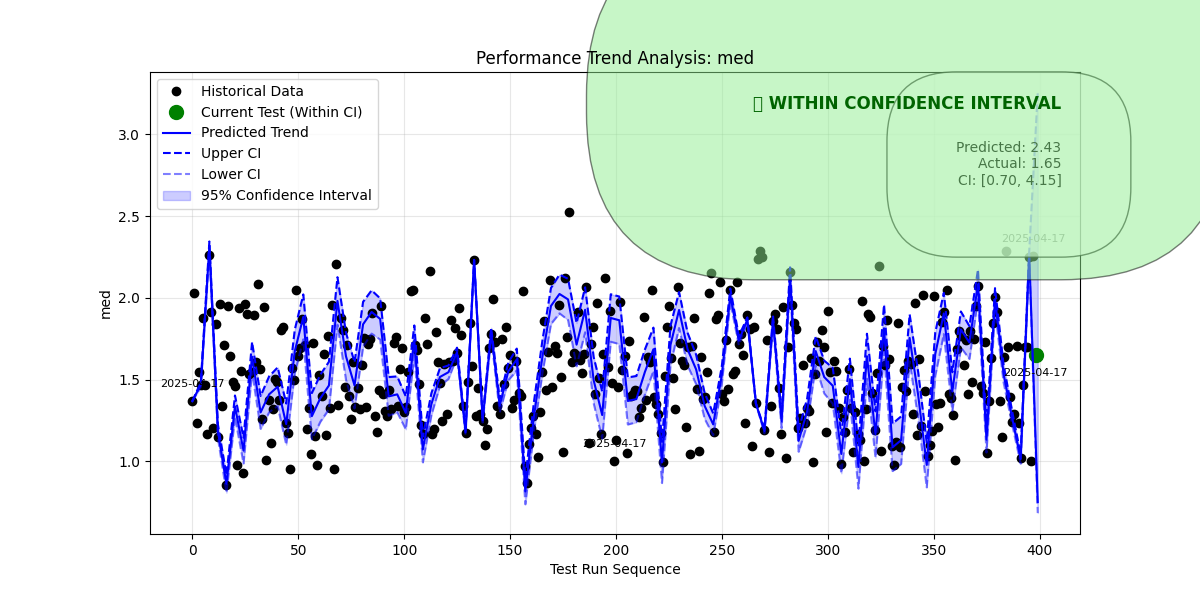
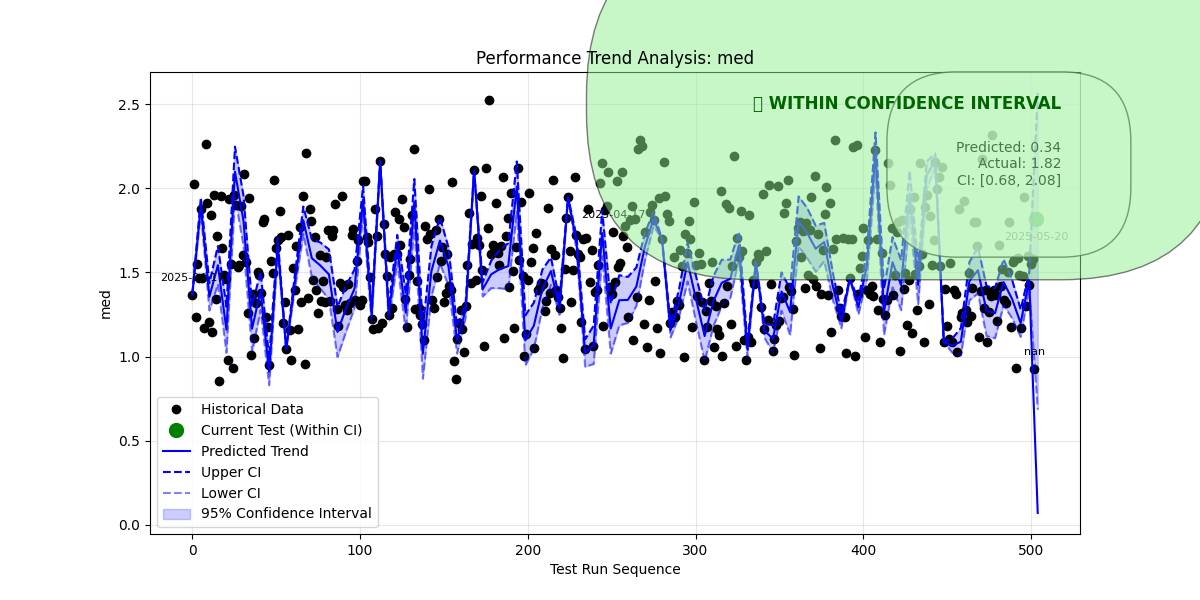
fix timestamp issue

diff --git a/analyze_trend_with_ml.py b/analyze_trend_with_ml.py
@@ -129,11 +129,29 @@ def print_analysis_results(results):
 
 def plot_trend_with_current(historical_csv, current_csv, metric):
     """Plots the historical trend with prediction and current value."""
-    historical_df = pd.read_csv(historical_csv, parse_dates=['timestamp'])
-    current_df = pd.read_csv(current_csv, parse_dates=['timestamp'])
+    # Load data
+    historical_df = pd.read_csv(historical_csv)
+    current_df = pd.read_csv(current_csv)
     
-    # Sort historical data by timestamp
-    historical_df = historical_df.sort_values('timestamp')
+    # Explicitly convert timestamp to datetime if needed
+    try:
+        if 'timestamp' in historical_df.columns:
+            # Try to convert timestamp to datetime if it's not already
+            if not pd.api.types.is_datetime64_any_dtype(historical_df['timestamp']):
+                historical_df['timestamp'] = pd.to_datetime(historical_df['timestamp'], errors='coerce')
+        
+        if 'timestamp' in current_df.columns:
+            if not pd.api.types.is_datetime64_any_dtype(current_df['timestamp']):
+                current_df['timestamp'] = pd.to_datetime(current_df['timestamp'], errors='coerce')
+    except Exception as e:
+        print(f"Warning: Could not convert timestamps to datetime: {e}")
+        # Create a dummy timestamp column if needed for annotations
+        historical_df['_dummy_index'] = [f"Run {i+1}" for i in range(len(historical_df))]
+        current_df['_dummy_index'] = [f"Current" for i in range(len(current_df))]
+    
+    # Sort historical data by timestamp if possible
+    if 'timestamp' in historical_df.columns and pd.api.types.is_datetime64_any_dtype(historical_df['timestamp']):
+        historical_df = historical_df.sort_values('timestamp')
     
     # Create sequential indices (equally spaced) for historical data
     X = np.arange(len(historical_df)).reshape(-1, 1)
@@ -216,27 +234,48 @@ def plot_trend_with_current(historical_csv, current_csv, metric):
     plt.legend()
     plt.grid(True, alpha=0.3)
     
-    # Add annotations with actual dates at some points
-    test_dates = historical_df['timestamp'].dt.strftime('%Y-%m-%d').tolist()
-    
-    # Add date annotations for first, last, and some intermediate points
-    indices_to_annotate = [0, len(test_dates)//2, len(test_dates)-1]
-    for idx in indices_to_annotate:
-        plt.annotate(test_dates[idx], 
-                    xy=(idx, historical_df[metric].iloc[idx]),
-                    xytext=(0, 10),
-                    textcoords='offset points',
-                    ha='center',
-                    fontsize=8)
-    
-    # Annotate current test date
-    current_date = current_df['timestamp'].iloc[0].strftime('%Y-%m-%d')
-    plt.annotate(current_date, 
-                xy=(current_x, current_value),
-                xytext=(0, -15),
-                textcoords='offset points',
-                ha='center',
-                fontsize=8)
+    # Add annotations with dates - modified to handle non-datetime timestamps
+    try:
+        if 'timestamp' in historical_df.columns and pd.api.types.is_datetime64_any_dtype(historical_df['timestamp']):
+            test_dates = historical_df['timestamp'].dt.strftime('%Y-%m-%d').tolist()
+            
+            # Add date annotations for first, last, and some intermediate points
+            indices_to_annotate = [0, len(test_dates)//2, len(test_dates)-1]
+            for idx in indices_to_annotate:
+                plt.annotate(test_dates[idx], 
+                            xy=(idx, historical_df[metric].iloc[idx]),
+                            xytext=(0, 10),
+                            textcoords='offset points',
+                            ha='center',
+                            fontsize=8)
+            
+            # Annotate current test date
+            if pd.api.types.is_datetime64_any_dtype(current_df['timestamp']):
+                current_date = current_df['timestamp'].iloc[0].strftime('%Y-%m-%d')
+                plt.annotate(current_date, 
+                            xy=(current_x, current_value),
+                            xytext=(0, -15),
+                            textcoords='offset points',
+                            ha='center',
+                            fontsize=8)
+        else:
+            # Use run numbers instead of dates if timestamps aren't available
+            for idx in [0, len(historical_df)//2, len(historical_df)-1]:
+                plt.annotate(f"Run {idx+1}", 
+                            xy=(idx, historical_df[metric].iloc[idx]),
+                            xytext=(0, 10),
+                            textcoords='offset points',
+                            ha='center',
+                            fontsize=8)
+            
+            plt.annotate("Current", 
+                        xy=(current_x, current_value),
+                        xytext=(0, -15),
+                        textcoords='offset points',
+                        ha='center',
+                        fontsize=8)
+    except Exception as e:
+        print(f"Warning: Could not add date annotations: {e}")
     
     # Add confidence interval info box
     info_text = f"Predicted: {current_pred[0]:.2f}\nActual: {current_value:.2f}\nCI: [{current_ci[0]:.2f}, {current_ci[1]:.2f}]"
